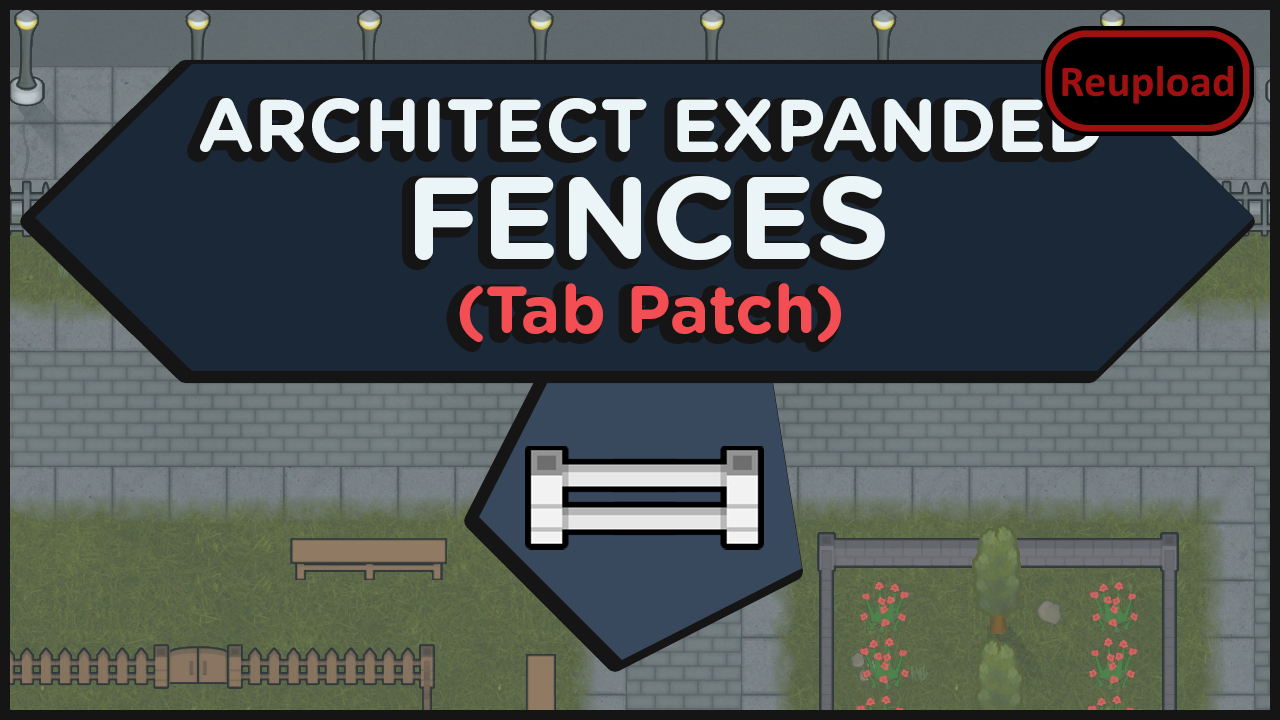
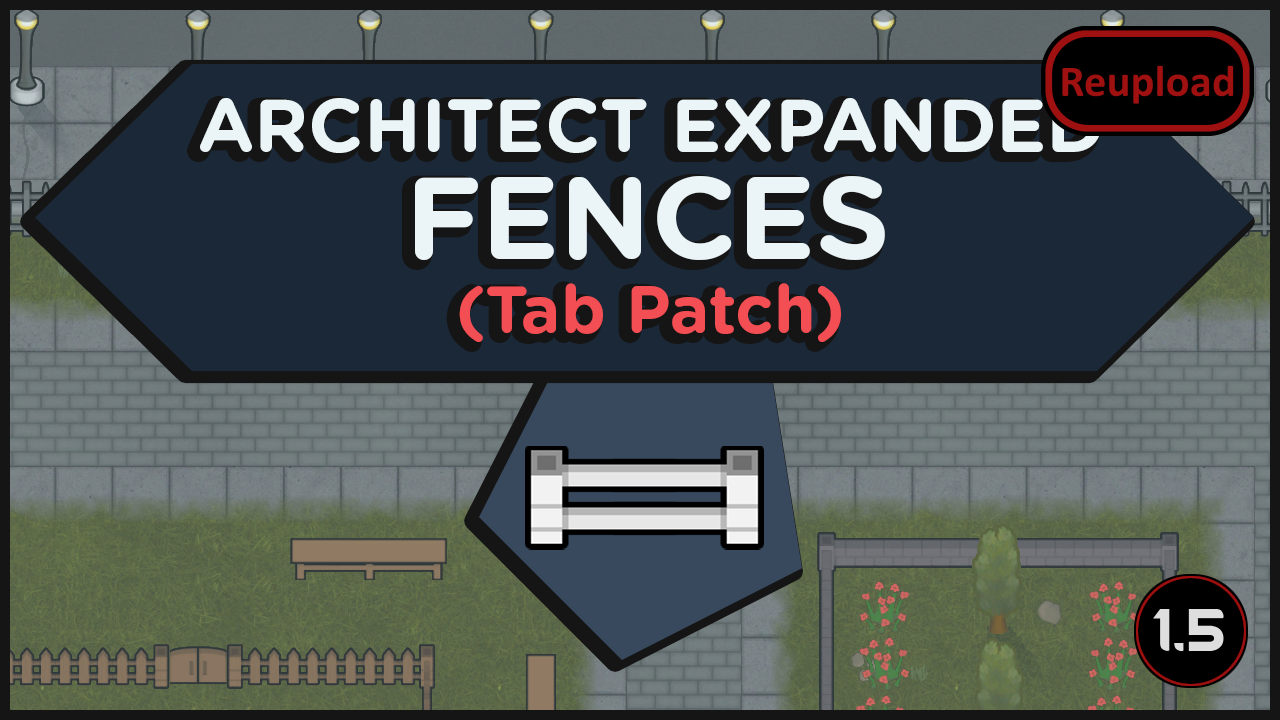
Mod updated for 1.5 and passed autotests

Changed region(s): [[0.875, 0.7944, 1.0, 0.9778]]

diff --git a/README.md b/README.md
@@ -22,10 +22,13 @@ A patch that creates a "Fences" tab for https://steamcommunity.com/sharedfiles/f
 
 -  See if the the error persists if you just have this mod and its requirements active.
 -  If not, try adding your other mods until it happens again.
--  Post your error-log using https://steamcommunity.com/workshop/filedetails/?id=818773962]HugsLib and command Ctrl+F12
+-  Post your error-log using https://steamcommunity.com/workshop/filedetails/?id=818773962]HugsLib or the standalone https://steamcommunity.com/sharedfiles/filedetails/?id=2873415404]Uploader and command Ctrl+F12
 -  For best support, please use the Discord-channel for error-reporting.
 -  Do not report errors by making a discussion-thread, I get no notification of that.
 -  If you have the solution for a problem, please post it to the GitHub repository.
+-  Use https://github.com/RimSort/RimSort/releases/latest]RimSort to sort your mods
 
 
+
+https://steamcommunity.com/sharedfiles/filedetails/changelog/2631450944]![Image](https://img.shields.io/github/v/release/emipa606/ArchitectExpandedFencesTabPatch?label=latest%20version&style=plastic&color=9f1111&labelColor=black)
 
